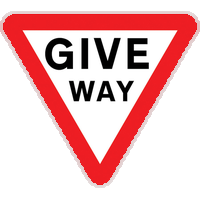
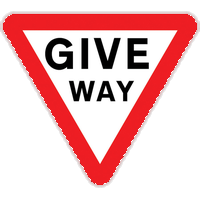
chore: Delete unnecessay files

diff --git a/blurEdge.py b/blurEdge.py
@@ -6,10 +6,12 @@ import cv2 as cv
 #IMREAD_UNCHANGED makes sure the alpha channel is read in
 sign = cv.imread("./images/9.png", IMREAD_UNCHANGED)
 cv.waitKey(0)
-blurred_img = cv.blur(sign,(25,25))
+blurred_img = cv.blur(sign,(5,5))
 # blurred_img = cv.GaussianBlur(sign, (25, 25), 0)
 mask = np.zeros(sign.shape, np.uint8)
 
+cv.imshow("blurred image", blurred_img)
+cv.waitKey(0)
 
 #greyscale
 grey = cv.cvtColor(sign, cv.COLOR_BGR2GRAY)

diff --git a/AA_sign.py b/AA_sign.py
@@ -4,6 +4,9 @@ import matplotlib as plt
 import cv2 as cv
 from PIL import Image
 
+#attempt at opening image at a larger size and the tring to rescale it and use Anti aliasing features
+#this approach is a dead end probably
+
 img = Image.open("./image stuffz/clean_image.jpg")
 
 img.thumbnail(img.size, Image.ANTIALIAS)
